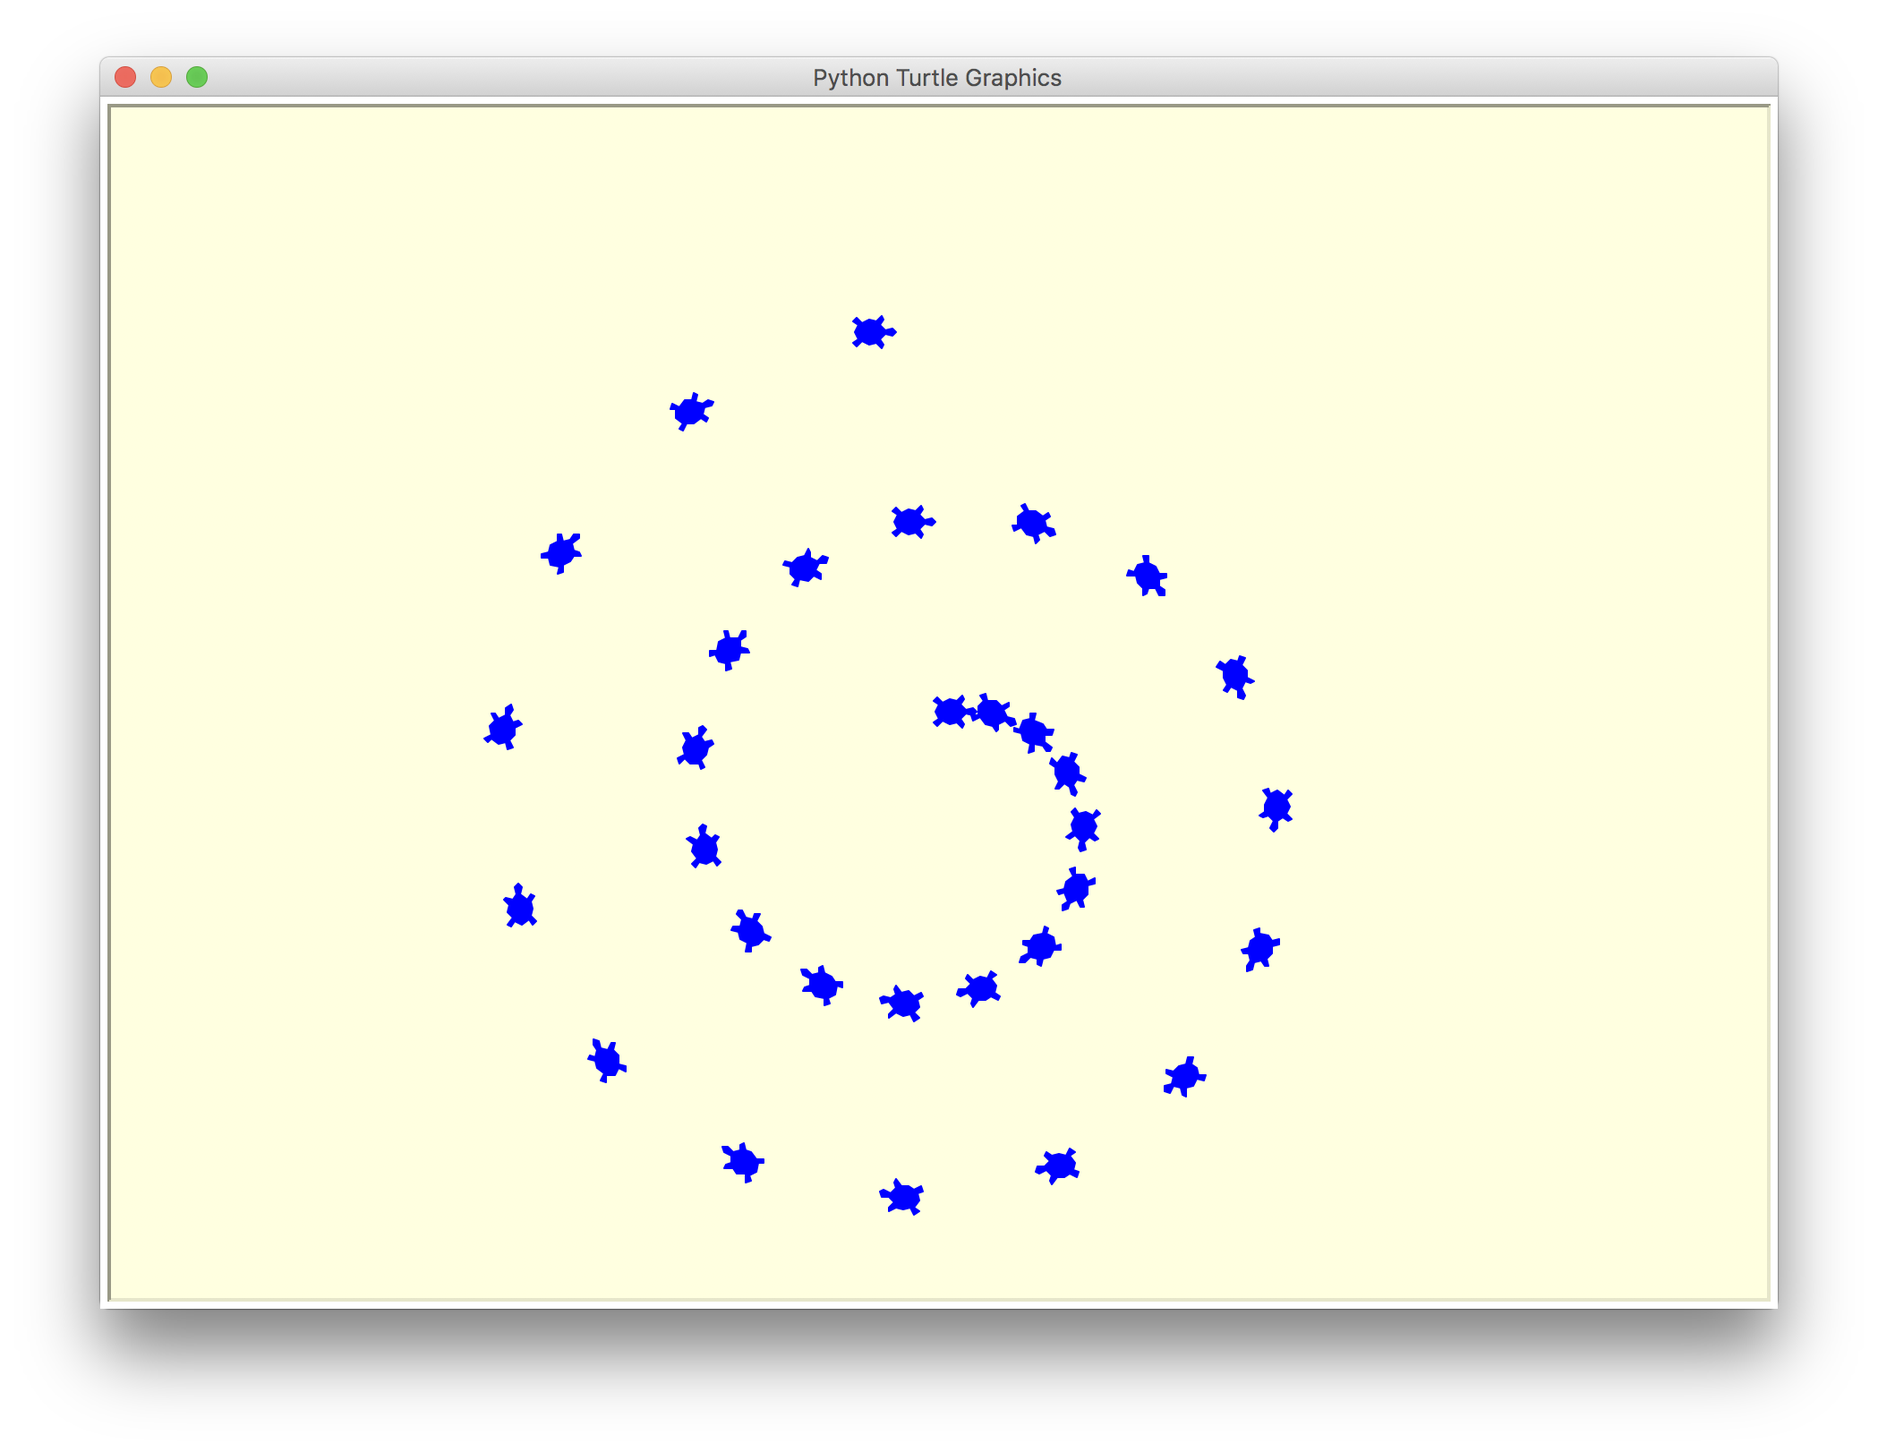
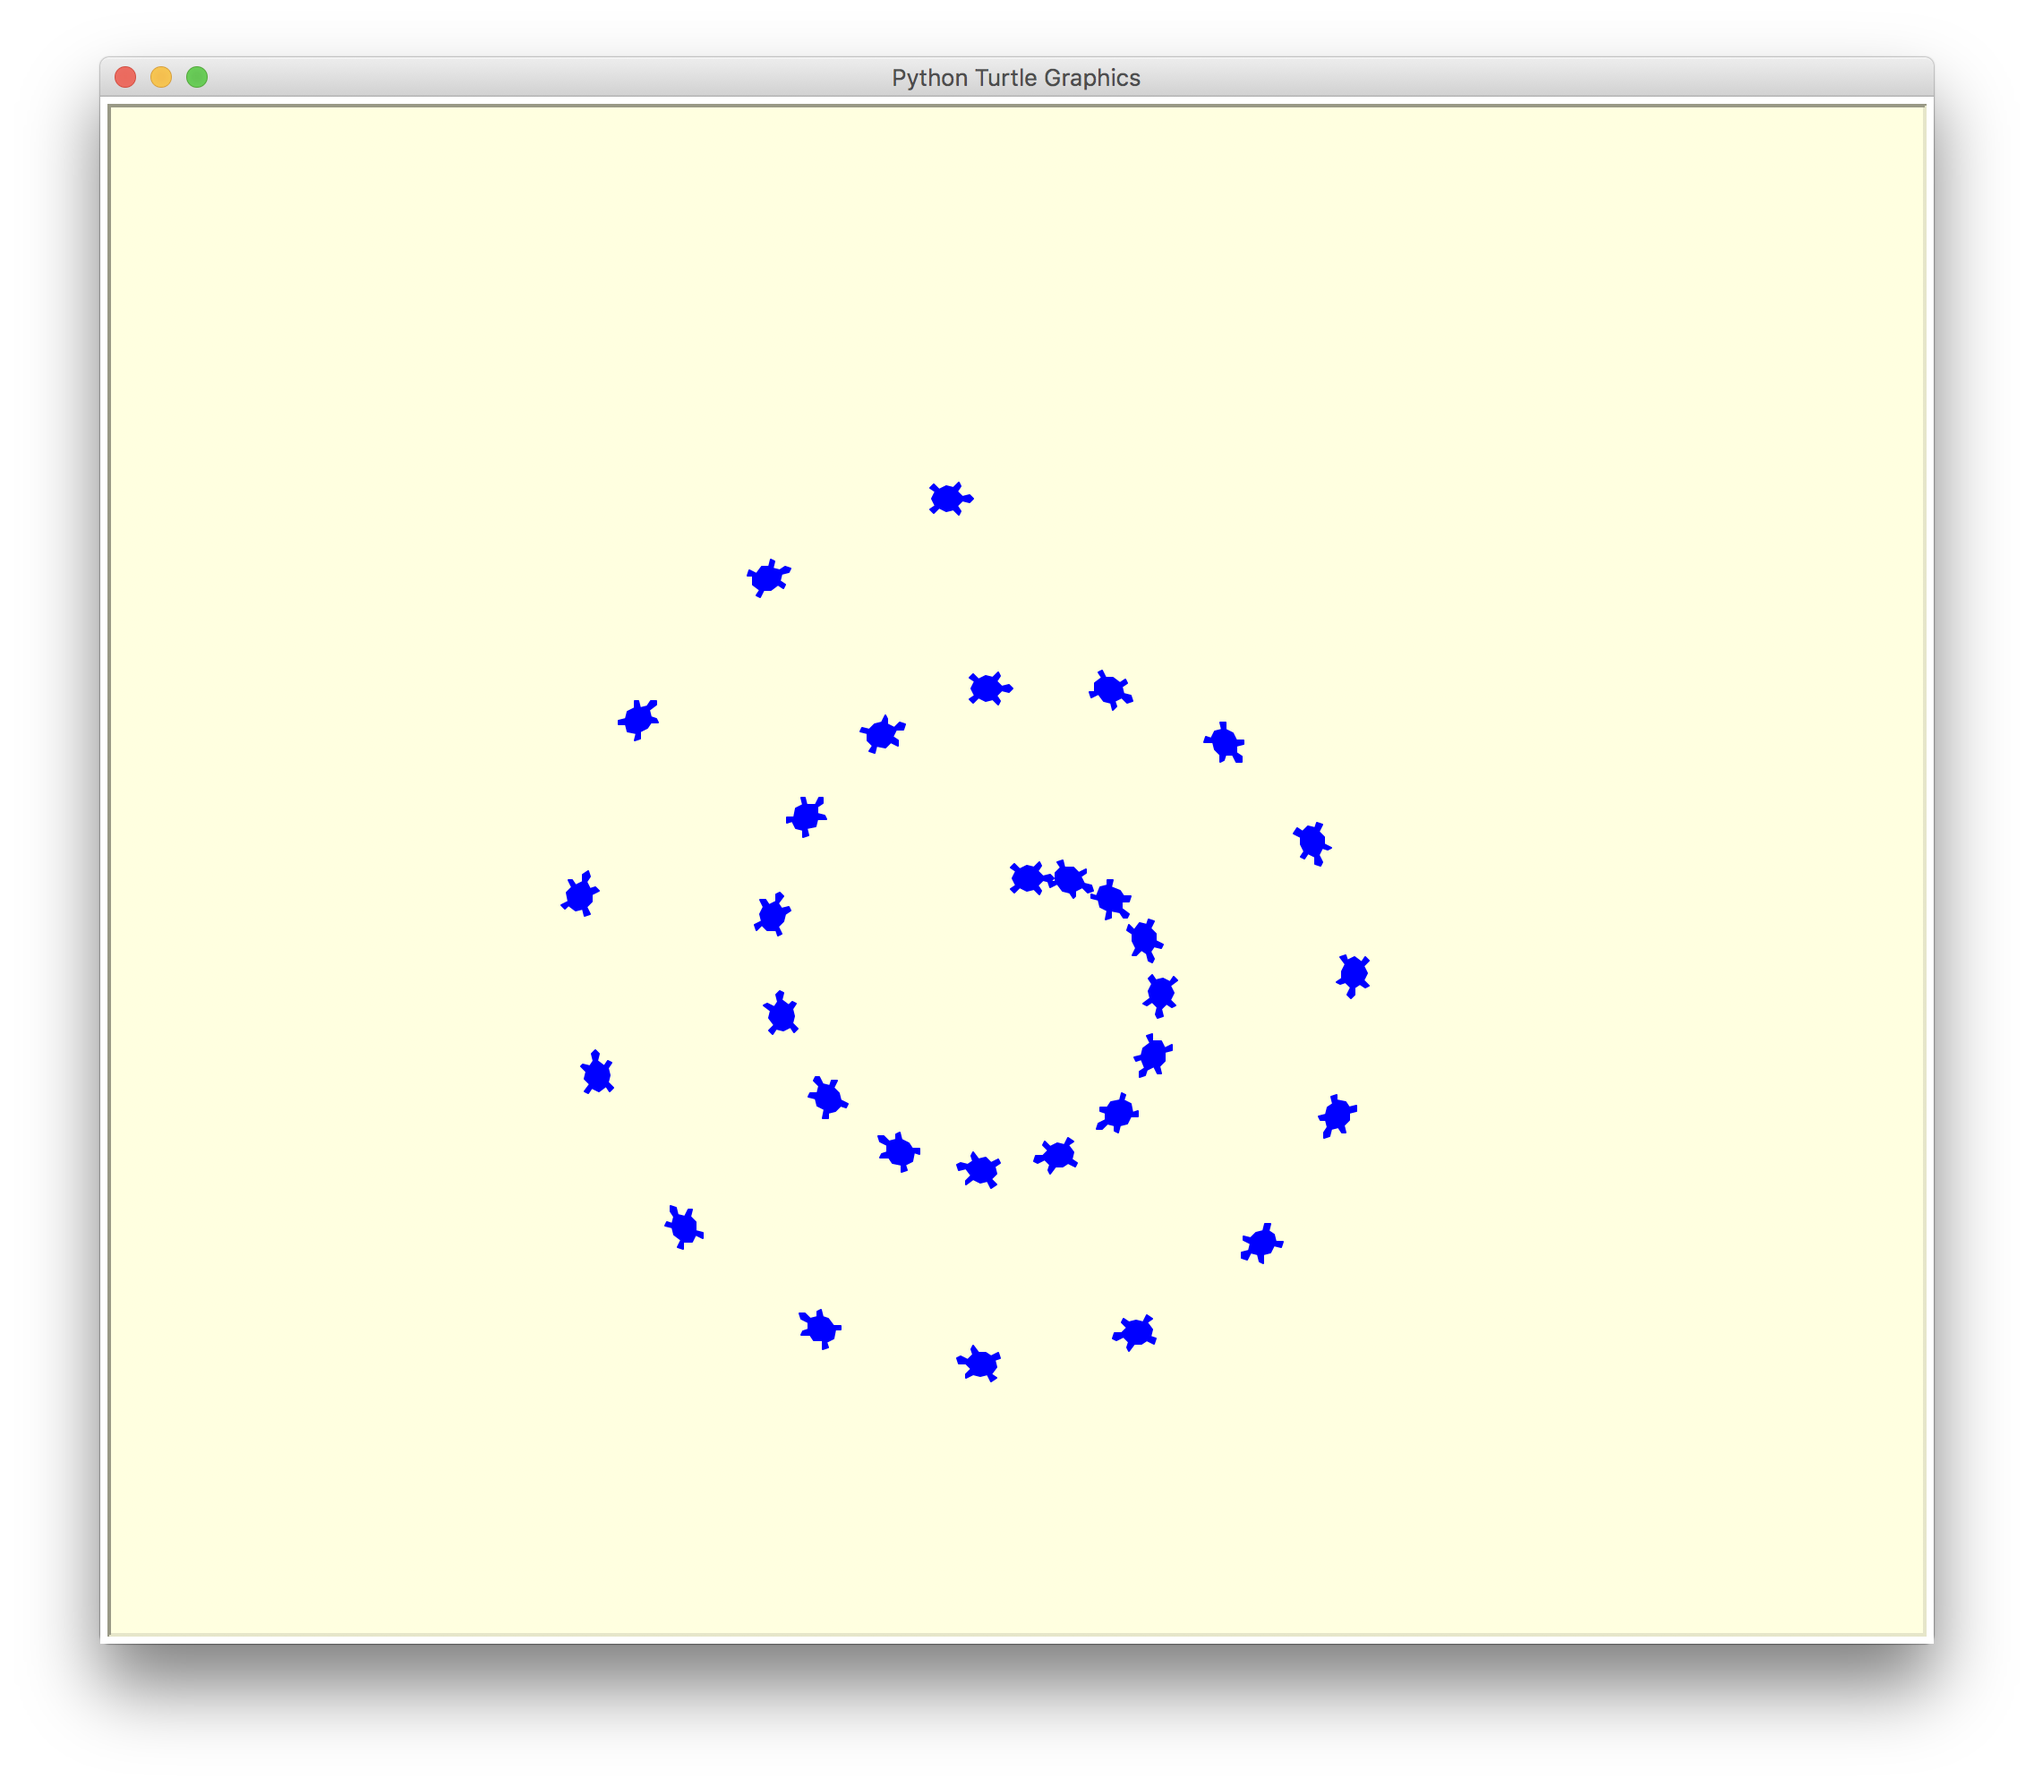
오타 수정

diff --git a/notes/codes/flower.py b/notes/codes/flower.py
@@ -53,14 +53,14 @@ def move(t, length):
 bob = turtle.Turtle()
 
 # draw a sequence of three flowers, as shown in the book.
-move(bob, -100)
-flower(bob, 7, 60.0, 60.0)
+move(bob, -200)
+flower(bob, 7, 90.0, 60.0)
 
-move(bob, 100)
-flower(bob, 10, 40.0, 80.0)
+move(bob, 200)
+flower(bob, 10, 60.0, 80.0)
 
-move(bob, 100)
-flower(bob, 20, 140.0, 20.0)
+move(bob, 200)
+flower(bob, 20, 210.0, 20.0)
 
 bob.hideturtle()
 turtle.mainloop()

diff --git a/notes/codes/pie.py b/notes/codes/pie.py
@@ -27,7 +27,7 @@ def draw_pie(t, n, r):
     t.fd(r*2 + 10)
     t.pd()
 
-    
+
 def polypie(t, n, r):
     """Draws a pie divided into radial segments.
 
@@ -68,12 +68,10 @@ bob.bk(130)
 bob.pd()
 
 # draw polypies with various number of sides
-size = 40
+size = 100
 draw_pie(bob, 5, size)
 draw_pie(bob, 6, size)
 draw_pie(bob, 7, size)
-draw_pie(bob, 8, size)
 
 bob.hideturtle()
 turtle.mainloop()
-

diff --git a/notes/codes/mypolygon4.py b/notes/codes/mypolygon4.py
@@ -1,6 +1,7 @@
 import turtle
 wn = turtle.Screen()
 wn.bgcolor("lightyellow")
+
 bob = turtle.Turtle()
 bob.shape("turtle")        # 화살표 대신 거북이 모양 선택
 bob.color("blue")
